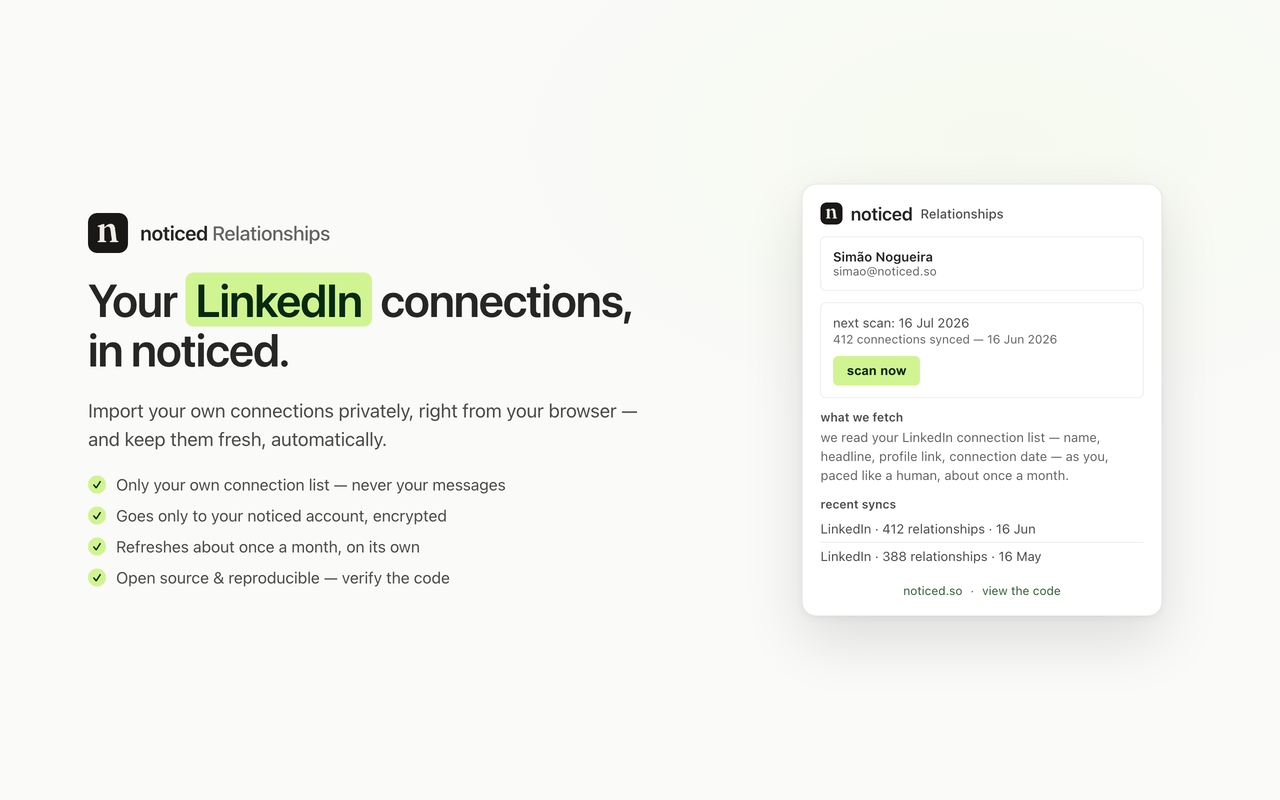
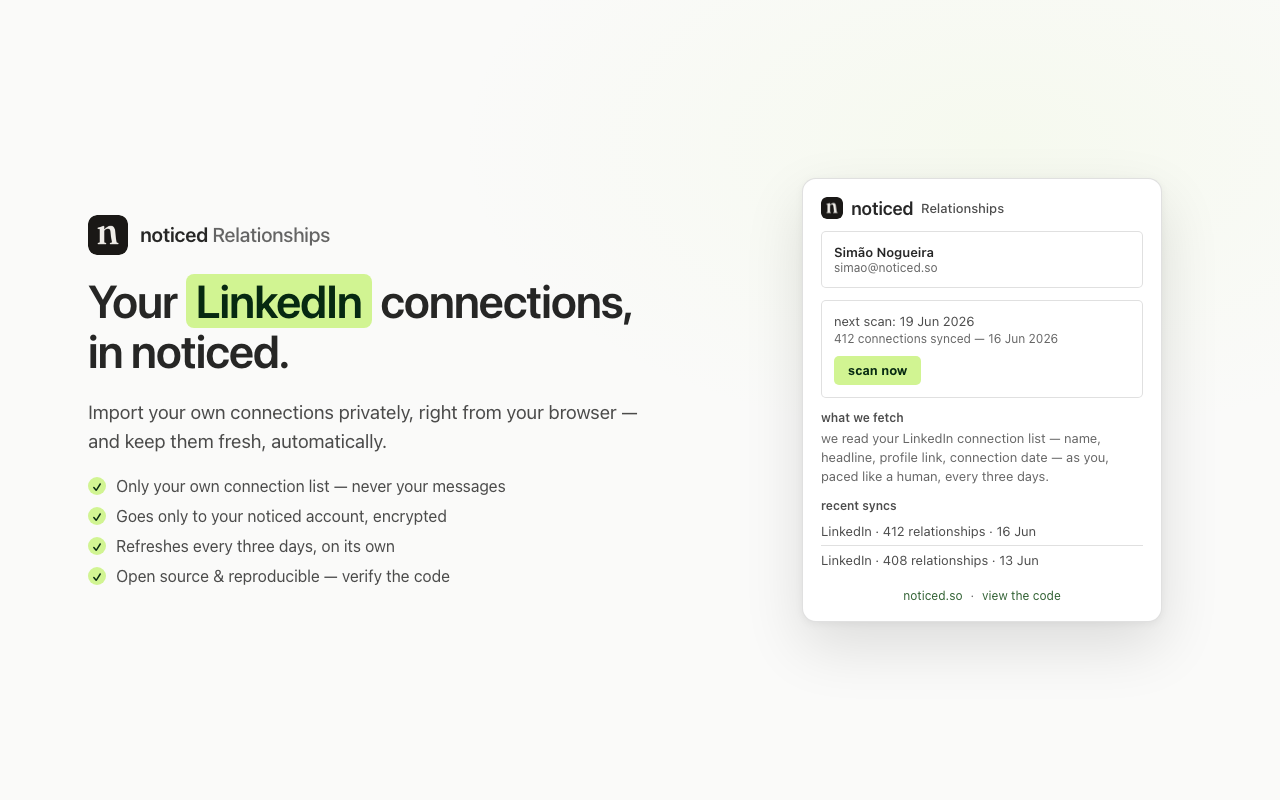
feat: sync relationships every three days (#14)

diff --git a/src/service-worker.ts b/src/service-worker.ts
@@ -40,10 +40,9 @@ import { getState, setState } from "./lib/storage";
 import type { Account, ScanRecipe, PendingScan, State } from "./lib/storage";
 
 const SCAN_ALARM = "scan";
-const SCAN_PERIOD_MINUTES = 43200; // ~30 days
+const SCAN_PERIOD_MINUTES = 3 * 24 * 60;
 const SCAN_PERIOD_MS = SCAN_PERIOD_MINUTES * 60 * 1000;
-const DAY_MS = 24 * 60 * 60 * 1000;
-const SCAN_THROTTLE_MS = SCAN_PERIOD_MS - DAY_MS;
+const SCAN_THROTTLE_MS = SCAN_PERIOD_MS;
 const SYNC_PATH = "/x/sync";
 
 const SCAN_TICK_ALARM = "scan-tick";
@@ -859,7 +858,7 @@ export async function runScan(source?: string, deps: RunScanDeps = {}): Promise<
 
 /**
  * Auto-scan every source whose host permission is already granted, at most once
- * per throttle window. The SHARED path for the monthly alarm AND auto-scan-on-
+ * per throttle window. The SHARED path for the three-day alarm AND auto-scan-on-
  * pair (NT-66) — a single implementation so the two can never drift.
  *
  * The `lastScanStartedAt` throttle is load-bearing for the pair path: the /x/sync
@@ -871,7 +870,7 @@ export async function runScan(source?: string, deps: RunScanDeps = {}): Promise<
  *
  * `refreshRecipes` is false ONLY for the pair path, whose recipes arrived in the
  * pair message microseconds ago — re-fetching them would be a pure double-fetch.
- * The monthly alarm passes true: a 30-day-old recipe is exactly the stale one.
+ * The three-day alarm passes true so every automatic scan uses fresh recipes.
  * Either way only the FIRST source refreshes — one response carries every
  * source's recipe.
  */
@@ -897,7 +896,7 @@ async function handleExternal(
       sendResponse({ ok: true });
       return;
     case "pair": {
-      // Store the per-source recipes + account and arm the monthly alarm. The
+      // Store the per-source recipes + account and arm the three-day alarm. The
       // host permission is requested from a user gesture in the popup, not here.
       // The served ARRAY → stored RECORD mapping is shared with the start-of-scan
       // refresh (recipe-source.ts), so the two intake paths cannot drift.
@@ -911,7 +910,7 @@ async function handleExternal(
       chrome.alarms.create(SCAN_ALARM, { periodInMinutes: SCAN_PERIOD_MINUTES });
       sendResponse({ ok: true });
       // NT-66 auto-scan on pair: import the already-granted sources immediately so
-      // a reconnect syncs with no manual click. This TRULY mirrors the monthly-
+      // a reconnect syncs with no manual click. This TRULY mirrors the three-day
       // alarm path — including its throttle — via the shared helper, so the
       // /x/sync recipe-refresh re-pair (SyncBroker) can't re-trigger a scan loop.
       // First-time users (no host permission yet) are scanned by the popup's grant
@@ -1129,6 +1128,13 @@ export function registerListeners(): void {
   registered = true;
   lastChrome = chrome;
 
+  // Recreate the named alarm when Chrome installs or updates the extension.
+  // Without this, an existing installation would retain its previous cadence
+  // until the user paired again, despite running code with the new cadence.
+  chrome.runtime.onInstalled.addListener(() => {
+    chrome.alarms.create(SCAN_ALARM, { periodInMinutes: SCAN_PERIOD_MINUTES });
+  });
+
   chrome.runtime.onMessageExternal.addListener((message, sender, sendResponse) => {
     const origin = senderOrigin(sender);
     if (!isNoticedOrigin(origin)) return;
@@ -1159,15 +1165,14 @@ export function registerListeners(): void {
       return;
     }
     if (alarm.name !== SCAN_ALARM) return;
-    // The ~30-day alarm: whatever recipe we hold is up to a month old — exactly
-    // the case a live-served recipe exists for. Refresh before scanning.
+    // Refresh live-served recipes before every three-day automatic scan.
     void autoScanGrantedSources({ refreshRecipes: true });
   });
 
   // Grant → scan. When the user approves "grant access", Chrome commonly
   // DISMISSES the extension popup as the permission prompt appears, so the
   // popup's own post-grant scanNow never runs — the grant would then sync
-  // nothing until the 30-day alarm. The service worker is the durable context:
+  // nothing until the three-day alarm. The service worker is the durable context:
   // scan the newly-granted source(s) here so grant always completes a sync.
   // Skip if a scan is already in flight (the popup survived and sent scanNow) so
   // we never clobber an in-progress checkpoint.

diff --git a/src/__tests__/service-worker.test.ts b/src/__tests__/service-worker.test.ts
@@ -107,7 +107,7 @@ describe("service worker", () => {
     expect(stored.account).toMatchObject({ id: "acct-1" });
     expect(stored.noticedOrigin).toBe("https://app.noticed.so");
 
-    expect(createAlarm).toHaveBeenCalledWith("scan", { periodInMinutes: 43200 });
+    expect(createAlarm).toHaveBeenCalledWith("scan", { periodInMinutes: 4320 });
     // pair must always ack — requesting permission here would throw (no gesture)
     // and leave the connect page hanging. Permission is requested in the popup.
     expect(reqPerms).not.toHaveBeenCalled();
@@ -316,10 +316,10 @@ describe("service worker", () => {
     expect(fakeFetch.mock.calls.length).toBeGreaterThan(2);
   });
 
-  it("9. alarm is throttled within the period and runs once the period has elapsed", async () => {
+  it("9. automatic scans wait the full three-day cadence and run once it has elapsed", async () => {
     const chrome = getChrome();
     vi.spyOn(chrome.cookies, "get").mockResolvedValue({ name: "tok", value: "abc" });
-    // The monthly alarm auto-scans every source whose host permission is granted.
+    // The three-day alarm auto-scans every source whose host permission is granted.
     vi.spyOn(chrome.permissions, "contains").mockResolvedValue(true);
     const fetchSpy = vi.fn(
       async () => ({ ok: true, json: async () => ({ elements: [] }) }) as Response,
@@ -333,14 +333,15 @@ describe("service worker", () => {
     await settle();
     fetchSpy.mockClear(); // isolate the alarm from any pair-path activity
 
-    // an alarm fire is now a duplicate/catch-up within the period → skip it
+    // Two days is still inside the cadence, including reconnect-triggered scans.
+    await chrome.storage.local.set({ lastScanStartedAt: Date.now() - 2 * 24 * 60 * 60 * 1000 });
     chrome.alarms.onAlarm.dispatch({ name: "scan" });
     await settle();
     expect(fetchSpy).not.toHaveBeenCalled();
 
-    // last automatic scan was > a period ago → the alarm runs a fresh scan
+    // The last automatic scan was more than three days ago → run a fresh scan.
     fetchSpy.mockClear();
-    await chrome.storage.local.set({ lastScanStartedAt: Date.now() - 31 * 24 * 60 * 60 * 1000 });
+    await chrome.storage.local.set({ lastScanStartedAt: Date.now() - 4 * 24 * 60 * 60 * 1000 });
     chrome.alarms.onAlarm.dispatch({ name: "scan" });
     await settle();
     expect(fetchSpy).toHaveBeenCalled();
@@ -699,6 +700,15 @@ describe("service worker", () => {
     expect(createAlarm).toHaveBeenCalledWith("scan-tick", { periodInMinutes: 0.5 });
   });
 
+  it("22b. updating an existing install replaces its old alarm with the three-day cadence", () => {
+    const chrome = getChrome();
+    const createAlarm = vi.spyOn(chrome.alarms, "create");
+
+    chrome.runtime.onInstalled.dispatch({ reason: "update", previousVersion: "1.2.9" });
+
+    expect(createAlarm).toHaveBeenCalledWith("scan", { periodInMinutes: 4320 });
+  });
+
   it("23. getStatus exposes scanning + scannedCount while a scan is in progress (E2)", async () => {
     const chrome = getChrome();
     await pair();
@@ -833,7 +843,7 @@ describe("service worker", () => {
     await pair(); // the SyncBroker recipe-refresh re-pair
     await settle();
 
-    // Throttled just like the monthly alarm → no re-scan. Otherwise the re-pair
+    // Throttled just like the three-day alarm → no re-scan. Otherwise the re-pair
     // scans → finalizes → opens another /x/sync tab → re-pairs → scans …, an
     // unbounded loop that hammers LinkedIn/X (account-ban risk).
     expect(fetchSpy).not.toHaveBeenCalled();

diff --git a/store-assets/promo.html b/store-assets/promo.html
@@ -87,7 +87,7 @@
       <ul>
         <li><span class="dot">✓</span> Only your own connection list — never your messages</li>
         <li><span class="dot">✓</span> Goes only to your noticed account, encrypted</li>
-        <li><span class="dot">✓</span> Refreshes about once a month, on its own</li>
+        <li><span class="dot">✓</span> Refreshes every three days, on its own</li>
         <li><span class="dot">✓</span> Open source &amp; reproducible — verify the code</li>
       </ul>
     </div>
@@ -104,7 +104,7 @@
           <div class="acct-email">simao@noticed.so</div>
         </div>
         <div class="pcard">
-          <div class="status-line">next scan: 16 Jul 2026</div>
+          <div class="status-line">next scan: 19 Jun 2026</div>
           <div class="status-sub">412 connections synced — 16 Jun 2026</div>
           <div class="actions">
             <button class="btn">scan now</button>
@@ -112,12 +112,12 @@
         </div>
         <div>
           <div class="blk-title">what we fetch</div>
-          <div class="blk-body">we read your LinkedIn connection list — name, headline, profile link, connection date — as you, paced like a human, about once a month.</div>
+          <div class="blk-body">we read your LinkedIn connection list — name, headline, profile link, connection date — as you, paced like a human, every three days.</div>
         </div>
         <div class="syncs">
           <h2>recent syncs</h2>
           <div class="srow">LinkedIn · 412 relationships · 16 Jun</div>
-          <div class="srow">LinkedIn · 388 relationships · 16 May</div>
+          <div class="srow">LinkedIn · 408 relationships · 13 Jun</div>
         </div>
         <div class="foot"><a>noticed.so</a><span class="sep">·</span><a>view the code</a></div>
       </div>

diff --git a/store-assets/promo-marquee.html b/store-assets/promo-marquee.html
@@ -47,7 +47,7 @@
   <div class="pop">
     <div class="ph"><img src="../icons/icon48.png" alt=""/><span class="wm">noticed</span><span class="pr">Relationships</span></div>
     <div class="pc"><div class="nm">Simão Nogueira</div><div class="em">simao@noticed.so</div></div>
-    <div class="pc"><div class="sl">next scan: 16 Jul 2026</div><div class="ss">412 connections synced — 16 Jun 2026</div><div><span class="btn">scan now</span></div></div>
-    <div><div class="bt">what we fetch</div><div class="bb">we read your LinkedIn connection list — name, headline, profile link, connection date — as you, about once a month.</div></div>
+    <div class="pc"><div class="sl">next scan: 19 Jun 2026</div><div class="ss">412 connections synced — 16 Jun 2026</div><div><span class="btn">scan now</span></div></div>
+    <div><div class="bt">what we fetch</div><div class="bb">we read your LinkedIn connection list — name, headline, profile link, connection date — as you, every three days.</div></div>
   </div>
 </body></html>

diff --git a/test/mocks/chrome.ts b/test/mocks/chrome.ts
@@ -33,6 +33,7 @@ export interface ChromeMock {
     sendMessage: (message: unknown) => Promise<unknown>;
     onMessage: FakeEvent<[unknown, unknown, (response?: unknown) => void]>;
     onMessageExternal: FakeEvent<[unknown, unknown, (response?: unknown) => void]>;
+    onInstalled: FakeEvent<[{ reason: string; previousVersion?: string }]>;
   };
   storage: {
     local: {
@@ -89,6 +90,7 @@ function createChromeMock(): ChromeMock {
       },
       onMessage: createEvent(),
       onMessageExternal: createEvent(),
+      onInstalled: createEvent(),
     },
     storage: { local },
     alarms: {

diff --git a/src/popup/__tests__/popup.test.ts b/src/popup/__tests__/popup.test.ts
@@ -60,6 +60,7 @@ describe("popup", () => {
     expect(document.getElementById("last-scan")!.textContent).toContain("412");
     const fetched = document.getElementById("what-we-fetch")!.textContent ?? "";
     expect(fetched).toContain("ExampleNet");
+    expect(fetched).toContain("every three days");
     expect(fetched.toLowerCase()).not.toContain("linkedin");
     // E4: status.needs === "noticed-signin" now surfaces the actionable Sign-in
     // button (single source of truth) rather than a dangling red text line.

diff --git a/src/popup/popup.ts b/src/popup/popup.ts
@@ -405,7 +405,7 @@ function render(root: Document | HTMLElement, status: Status): void {
     root,
     "what-we-fetch",
     `we read your ${list} connection ${listWord} — name, headline, profile link, ` +
-      `connection date — as you, paced like a human, about once a month. ` +
+      `connection date — as you, paced like a human, every three days. ` +
       `we never read messages or anything else.`,
   );
 

diff --git a/store-assets/promo-small.html b/store-assets/promo-small.html
@@ -18,5 +18,5 @@
 </style></head><body>
   <div class="row"><img src="../icons/icon128.png" alt=""/><span class="name">noticed <span class="m">Relationships</span></span></div>
   <h1>Your <span class="a">LinkedIn</span> connections, in noticed.</h1>
-  <p>Import them privately, from your browser — refreshed monthly.</p>
+  <p>Import them privately, from your browser — refreshed every three days.</p>
 </body></html>

diff --git a/src/types/chrome.d.ts b/src/types/chrome.d.ts
@@ -17,6 +17,7 @@ declare const chrome: {
     onMessageExternal: ChromeEvent<
       [unknown, { id?: string; origin?: string; url?: string }, SendResponse]
     >;
+    onInstalled: ChromeEvent<[{ reason: string; previousVersion?: string }]>;
   };
   storage: {
     local: {

diff --git a/STORE_LISTING.md b/STORE_LISTING.md
@@ -22,7 +22,7 @@ releases auto-publish — see [PUBLISHING.md](./PUBLISHING.md).
   How it works
   • Click Connect and sign in to noticed once.
   • The extension reads your own first-degree connection list as you (name, headline, profile link, connection date) and hands it to your signed-in noticed tab.
-  • It refreshes about once a month so your network stays current.
+  • It refreshes automatically every three days so your network stays current.
 
   Privacy
   • It only reads your own connection list — never your messages or anyone else's data.
@@ -42,8 +42,8 @@ releases auto-publish — see [PUBLISHING.md](./PUBLISHING.md).
   noticed Relationships imports the signed-in user's own first-degree LinkedIn connections into their noticed account and shows the import history.
   ```
 - **Permission justifications** (one per item):
-  - `storage` — `Stores the link to the user's noticed account (scan recipe + account summary) and the most recent pending import locally, so the popup can show status and the monthly import can run.`
-  - `alarms` — `Runs the connection import about once a month so the user's network stays current without manual re-triggering.`
+  - `storage` — `Stores the link to the user's noticed account (scan recipe + account summary) and the most recent pending import locally, so the popup can show status and the automatic three-day import can run.`
+  - `alarms` — `Runs the connection import every three days so the user's network stays current without manual re-triggering.`
   - `cookies` — `Reads the user's own LinkedIn session cookie in the browser to authenticate the connection-list request as the signed-in user. The value is used only as the request's CSRF header — never sent to our servers or stored.`
   - Host `*://*.linkedin.com/*` (optional, requested at runtime) — `Reads the signed-in user's own first-degree connection list from LinkedIn (name, headline, profile link, connection date), only when the user clicks Connect or Scan. Requested at runtime, not at install.`
   - Host `https://*.noticed.so/*` — `Sends the user's imported connections to their own noticed account and reads their import history, using the user's existing noticed session.`

diff --git a/README.md b/README.md
@@ -7,7 +7,7 @@ It's built in the open so you can verify exactly what it does.
 ## What it does
 
 - Reads **your own first-degree LinkedIn connection list** (name, headline, profile link, connection date) as the signed-in you, and hands it to your own signed-in noticed tab.
-- Refreshes about **once a month** so your network stays current.
+- Refreshes automatically **every three days** so your network stays current.
 - That's it — it never reads your messages, anyone else's data, or anything beyond your connection list.
 
 ## Privacy
@@ -38,7 +38,7 @@ It's built in the open so you can verify exactly what it does.
 
 1. Click the extension, then **Connect to noticed**.
 2. Sign in to noticed if prompted — it opens `noticed.so/x/connect` and pairs back to this extension.
-3. Approve the one-time LinkedIn access prompt, then **Scan now** (or wait for the monthly run).
+3. Approve the one-time LinkedIn access prompt, then **Scan now** (or wait for the next three-day run).
 
 ## Updating
 

diff --git a/CLAUDE.md b/CLAUDE.md
@@ -35,10 +35,10 @@ not at install.)
 **`src/service-worker.ts` is the brain.** It registers listeners (idempotently — re-binds when the test
 harness swaps the global `chrome`):
 - `onMessageExternal` — only from `*.noticed.so` origins (enforced by `isNoticedOrigin`): `ping`, `pair`
-  (store recipe+account+`noticedOrigin`, request the host permission, set the ~30-day alarm),
+  (store recipe+account+`noticedOrigin`, request the host permission, set the three-day alarm),
   `getCachedScan`, `syncConfirmed`.
 - `onMessage` (popup) — `getStatus`, `scanNow`, `setTestMode`, `getSyncHistory`.
-- `onAlarm` — runs `runScan` at most once per ~30 days (a `lastScanStartedAt` throttle guards
+- `onAlarm` — runs `runScan` at most once per three days (a `lastScanStartedAt` throttle guards
   catch-up/duplicate fires).
 
 `runScan` composes the pure libs: `cookies.ts` (read the session cookie → CSRF header) → `fetch-engine.ts`
